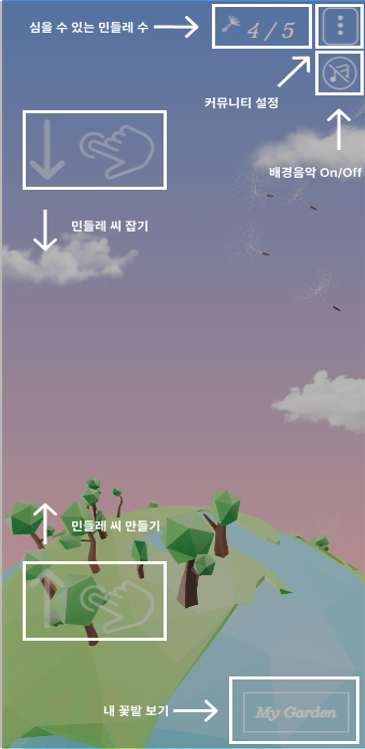
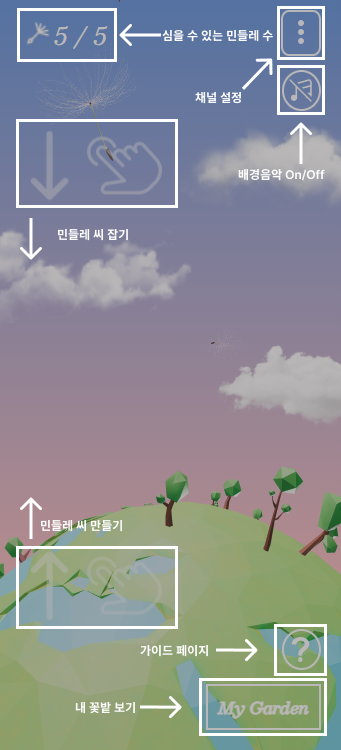
#S06P31A106-143 Fix: 가이트페이지 이미지 변경 및 남은 씨앗 위치 재설정

diff --git a/frontend/src/pages/LandingPage/LandingPage.module.scss b/frontend/src/pages/LandingPage/LandingPage.module.scss
@@ -8,7 +8,7 @@ $color: blue;
 
 .menu-button {
   position: fixed;
-  right: 10px;
+  right: 20px;
   top: 10px;
   border-radius: 20%;
   border: 2px solid white;
@@ -19,7 +19,7 @@ $color: blue;
 
 .music-button {
   position: fixed;
-  right: 11px;
+  right: 20px;
   top: 70px;
   border-radius: 100%;
   border: 2px solid white;
@@ -207,13 +207,13 @@ $color: blue;
 
 .leftseed {
   position: absolute;
-  right: 20%;
+  left: 20px;
   font-size: 1.5em;
   color: white;
   top: 0%;
   padding: 3% 0 0 0;
   .leftseedicon {
-    padding: 0 3% 0 0;
+    padding: 10px 0 0 0;
   }
 }
 
